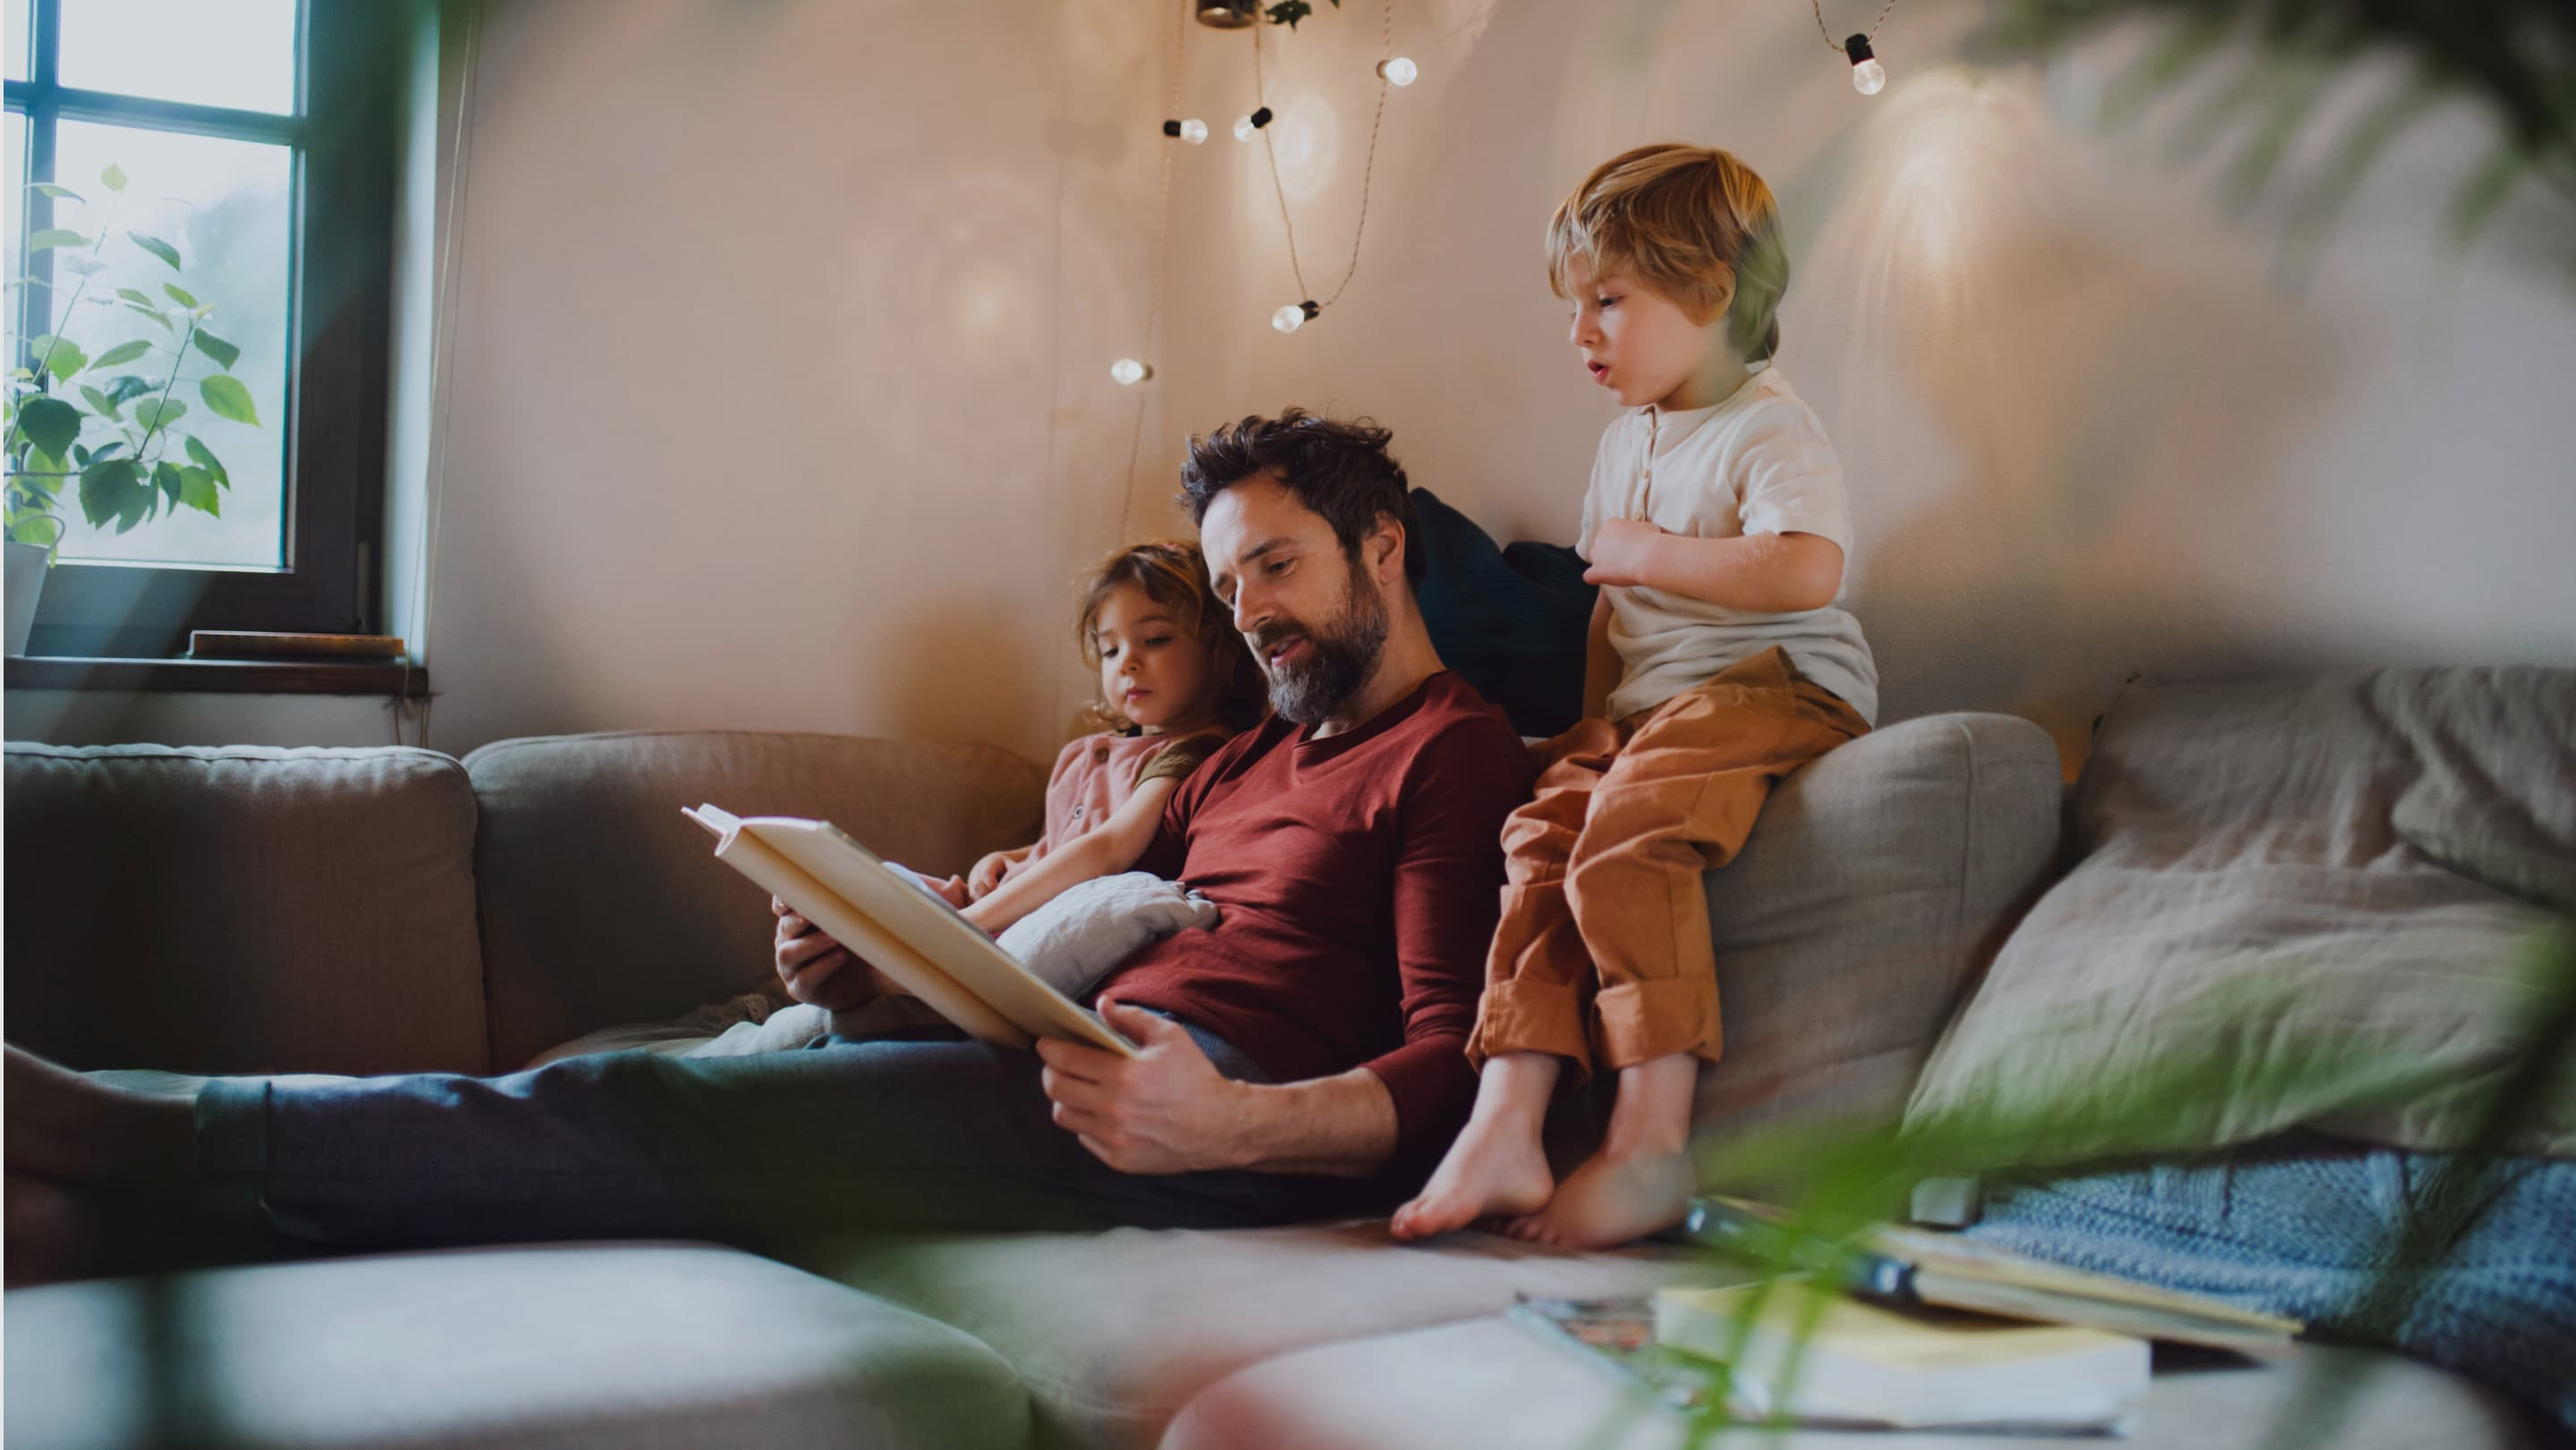
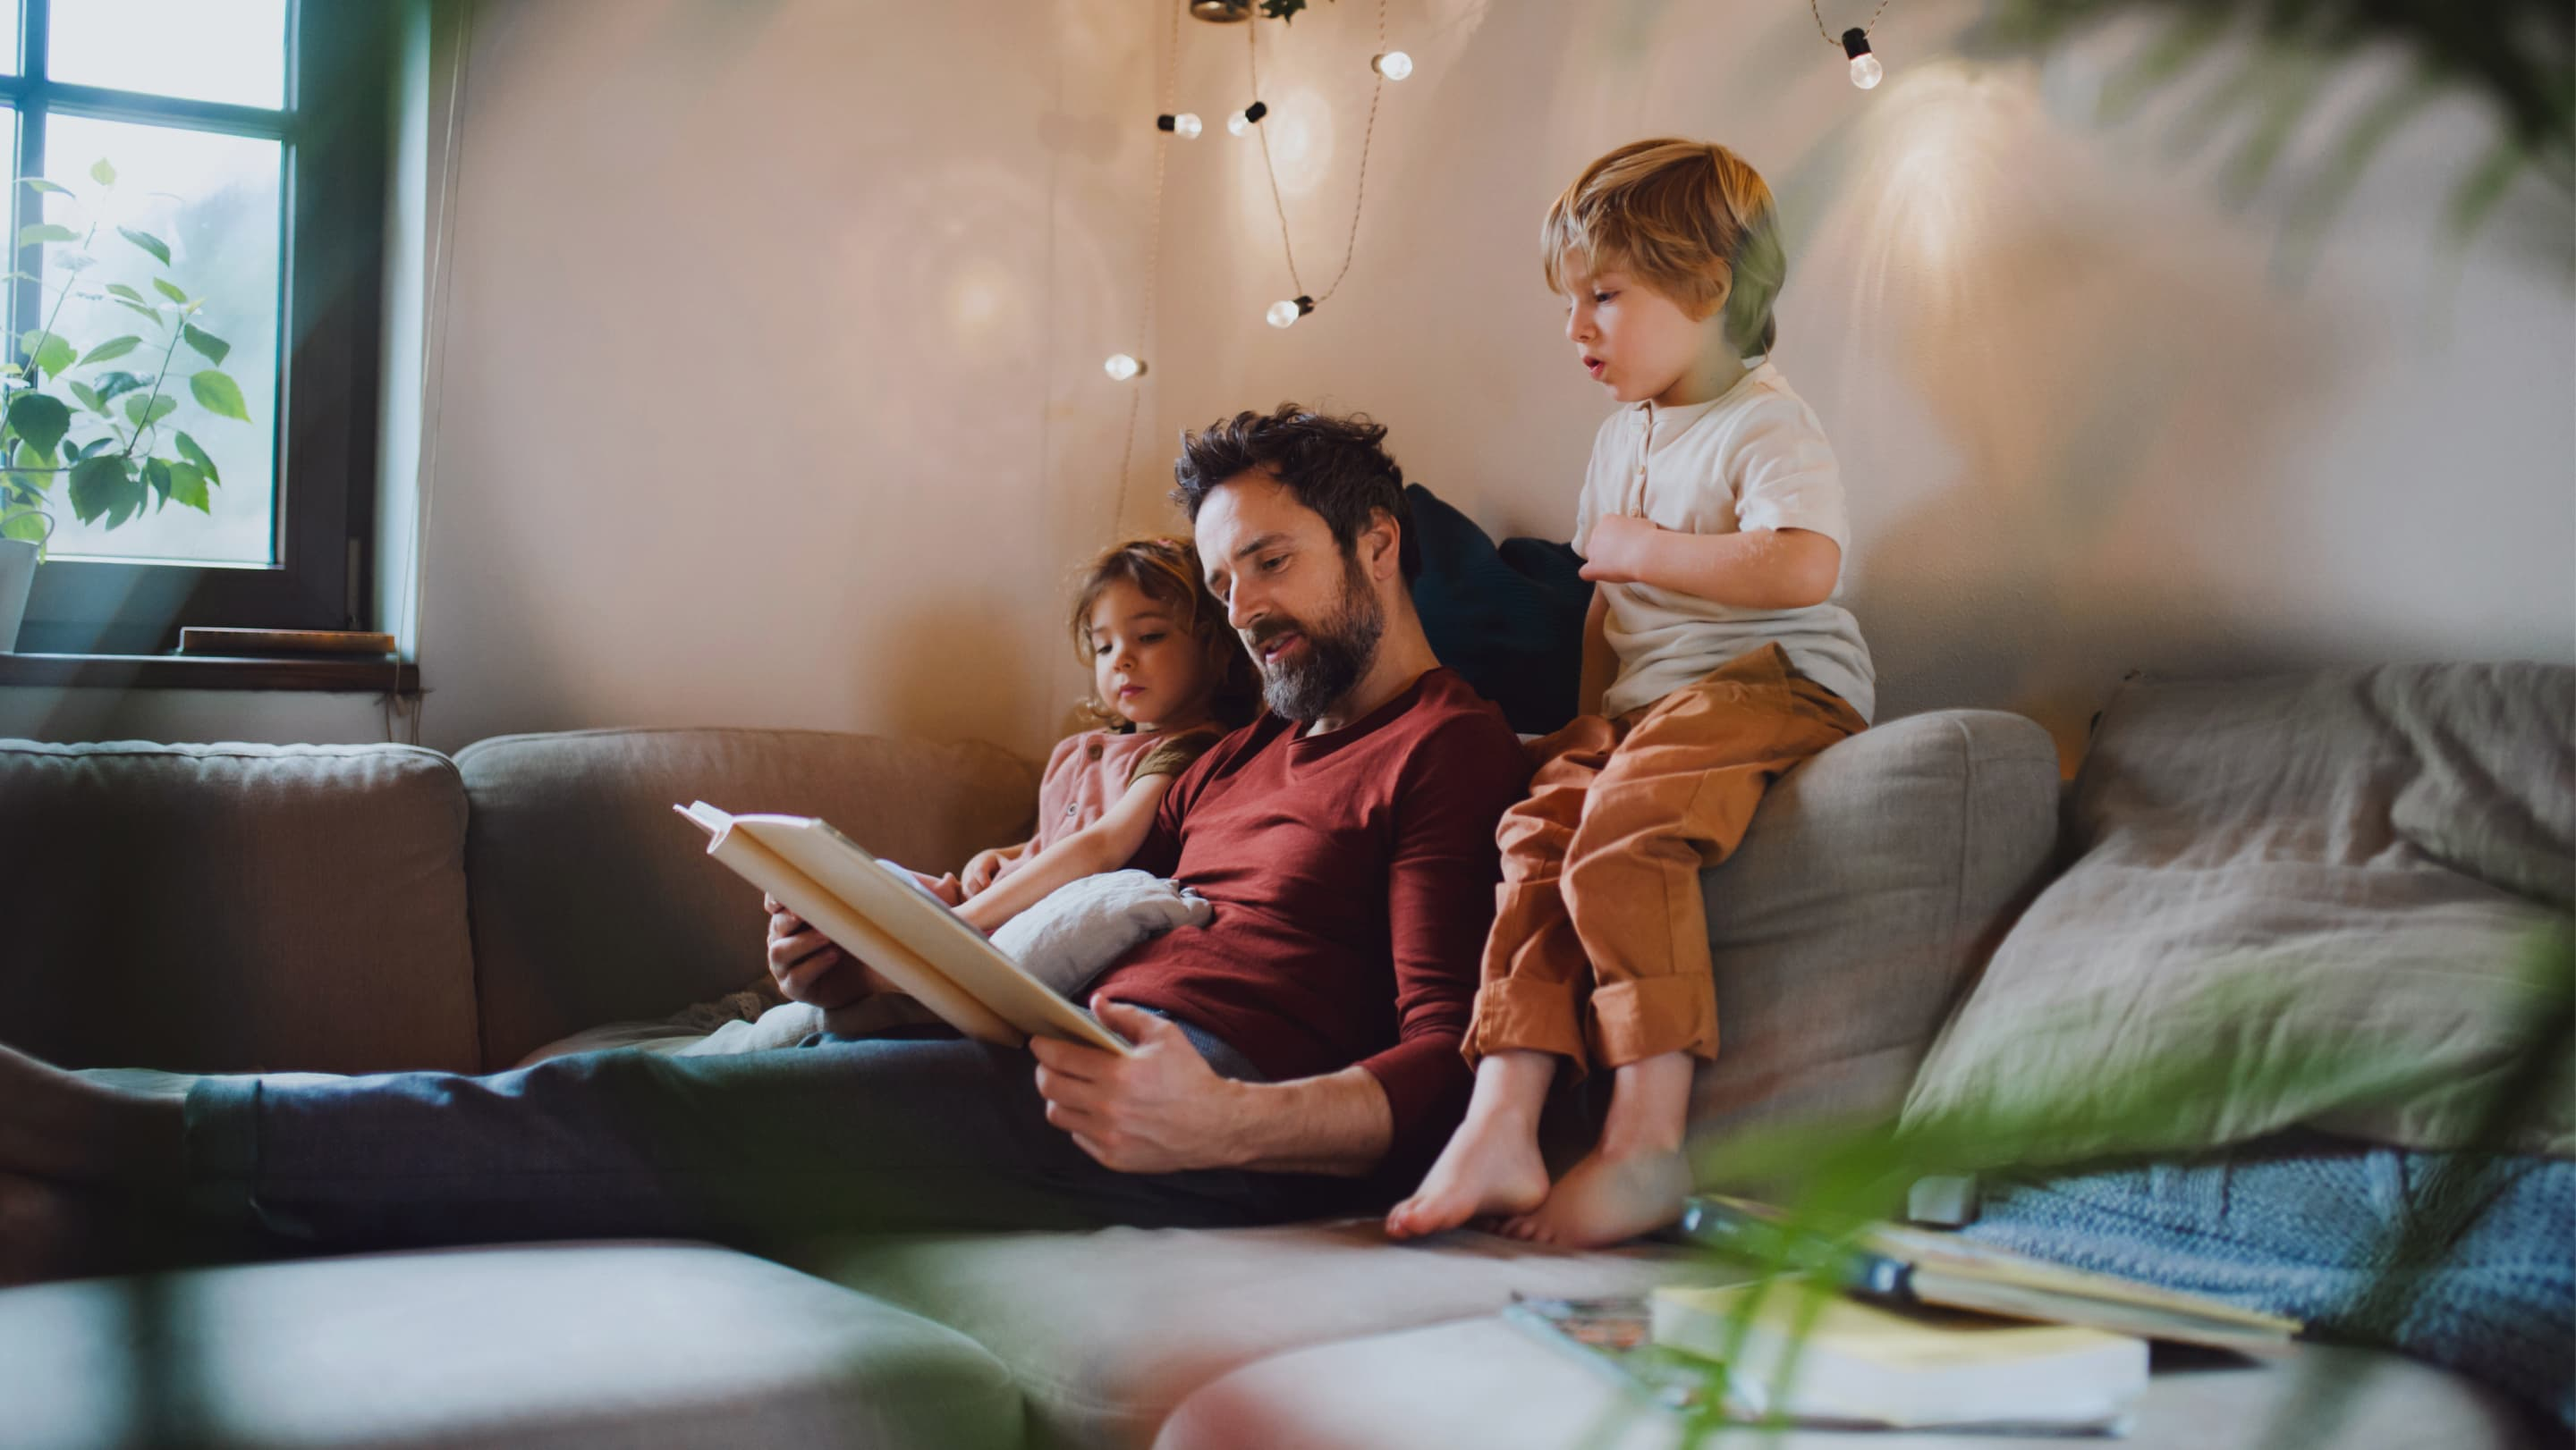
wip

diff --git a/components/Hero/LifestyleGallery.js b/components/Hero/LifestyleGallery.js
@@ -12,14 +12,10 @@ const childrenAnim = {
   enter: { opacity: 1, x: 0, y: 0 },
   exit: { opacity: 0, x: 0, y: -100 },
 };
-// I am pleaslant surprised to see that these imports now work in Next JS!
 import "swiper/css";
 import "swiper/css/pagination";
 import "swiper/css/effect-fade";
 
-
-//this is probably not neccessary you can experiment with removing it.
-import "swiper/css/mousewheel";
 
 // Add more modules here if you need them
 import { Autoplay, EffectFade, Navigation, Pagination } from "swiper";
@@ -27,58 +23,69 @@ import { Autoplay, EffectFade, Navigation, Pagination } from "swiper";
 export default function LifestyleGallery(props) {
   return (
     <>
-<div className="h-screen relative">
-  <img className="absolute hidden pointer-events-all z-[50] right-0 bottom-0 h-screen" src="/img/svg/gv-watermark.svg"></img>
-<Swiper
-          // direction={"vertical"}
-          slidesPerView={1}
-          spaceBetween={30}
-          effect={"fade"}
-          fadeEffect={{crossFade:true}}
-          speed={1500}
-          autoplay={{
-            delay: 3500,
-            disableOnInteraction: false,
-          }}
-
-          // mousewheel={{releaseOnEdges:true}}
-          // pagination={{
-          //   clickable: true,
-          // }}
-          modules={[EffectFade, Autoplay, Navigation, Pagination]}
-          
-          // Some sample events you can experiment with
-          onSlideChange={() => console.log('Slide changed!')}
-          onSwiper={(swiper) => console.log('my swiper details',swiper)}
-
+      <motion.div
+        className="h-screen relative"
+        initial="hidden"
+        whileInView={"enter"}
+        transition={{ staggerChildren: 0.5 }}
       >
-        <SwiperSlide><div className="!bg-[url('/img/hero/lf-1.jpg')] h-screen w-screen bg-center bg-cover"></div></SwiperSlide>
-        <SwiperSlide><div className="!bg-[url('/img/hero/lf-2.jpg')] h-screen w-screen bg-center bg-cover"></div></SwiperSlide>
-        <SwiperSlide><div className="!bg-[url('/img/hero/lf-3.jpg')] h-screen w-screen bg-center bg-cover"></div></SwiperSlide>
-    
-      </Swiper>
+        <img
+          className="absolute hidden pointer-events-all z-[50] right-0 bottom-0 h-screen"
+          src="/img/svg/gv-watermark.svg"
+        ></img>
+        <motion.div
+          className={`w-12/12 relative z-[2]  font-bold   `}
+          variants={imageAnim}
+          // initial="hidden"
+          // whileInView={"enter"}
+          transition={{ type: "easeIn", duration: 0.5 }}
+        >
+          <Swiper
+            // direction={"vertical"}
+            slidesPerView={1}
+            spaceBetween={30}
+            effect={"fade"}
+            fadeEffect={{ crossFade: true }}
+            speed={1500}
+            // autoplay={{
+            //   delay: 3500,
+            //   disableOnInteraction: false,
+            // }}
+            // mousewheel={{releaseOnEdges:true}}
+            // pagination={{
+            //   clickable: true,
+            // }}
+            modules={[EffectFade, Autoplay, Navigation, Pagination]}
+            // Some sample events you can experiment with
+            onSlideChange={() => console.log("Slide changed!")}
+            onSwiper={(swiper) => console.log("my swiper details", swiper)}
+          >
+            <SwiperSlide>
+              <div className="!bg-[url('/img/hero/lf-1.jpg')] h-screen w-screen bg-[top_right_-350px] md:bg-center bg-cover"></div>
+            </SwiperSlide>
+            <SwiperSlide>
+              <div className="!bg-[url('/img/hero/lf-2.jpg')] h-screen w-screen bg-[top_right_-350px] md:bg-center bg-cover"></div>
+            </SwiperSlide>
+            <SwiperSlide>
+              <div className="!bg-[url('/img/hero/lf-3.jpg')] h-screen w-screen bg-[top_left_-600px] md:bg-center bg-cover"></div>
+            </SwiperSlide>
+          </Swiper>
+        </motion.div>
 
-      <div className={`"  bottom-0  flex flex-col justify-end top-0 right-0 left-0  absolute  z-[2]  "`}>
+        <div
+          className={`"  bottom-0  flex flex-col justify-end top-0 right-0 left-0  absolute  z-[2]  "`}
+        >
           <motion.div
-            className={`w-12/12 relative z-[2]  font-bold ml-[100px] mb-[100px]  `}
+            className={`w-12/12 relative z-[2]  font-bold ml-[20px] mb-[50px] lg:ml-[100px] lg:mb-[100px]  `}
             variants={childrenAnim}
-            initial="hidden"
-            whileInView={"enter"}
+            // initial="hidden"
+            // whileInView={"enter"}
             transition={{ type: "easeIn", duration: 1.2 }}
           >
             {props.children}
           </motion.div>
         </div>
-</div>
+      </motion.div>
     </>
   );
 }
-
-
-// ****** Some reading to go farther.
-
-// Swiper Mousewheel docs 
-// https://swiperjs.com/swiper-api#mousewheel-control
-
-// Swiper Events docs 
-// https://swiperjs.com/swiper-api#events

diff --git a/pages/index.js b/pages/index.js
@@ -61,10 +61,10 @@ export default function Home({ community }) {
          */}
         <LifestyleGallery>
         <h1 className="drop-shadow-lg ">
-                <span className="text-5xl lg:text-8xl leading-[1.2em] font-bold block text-white">
+                <span className="text-4xl sm:text-5xl lg:text-8xl leading-[1.2em] md:leading-[1.2em] font-bold block text-white">
                   Spaces
                 </span>
-                <span className="text-5xl lg:text-8xl leading-[1.2em] font-thin text-white">
+                <span className=" text-4xl sm:text-5xl lg:text-8xl leading-[1.2em]  md:leading-[1.2em]  font-thin text-white">
                   DESIGNED <br></br>FOR&nbsp;LIFE
                 </span>
               </h1>
